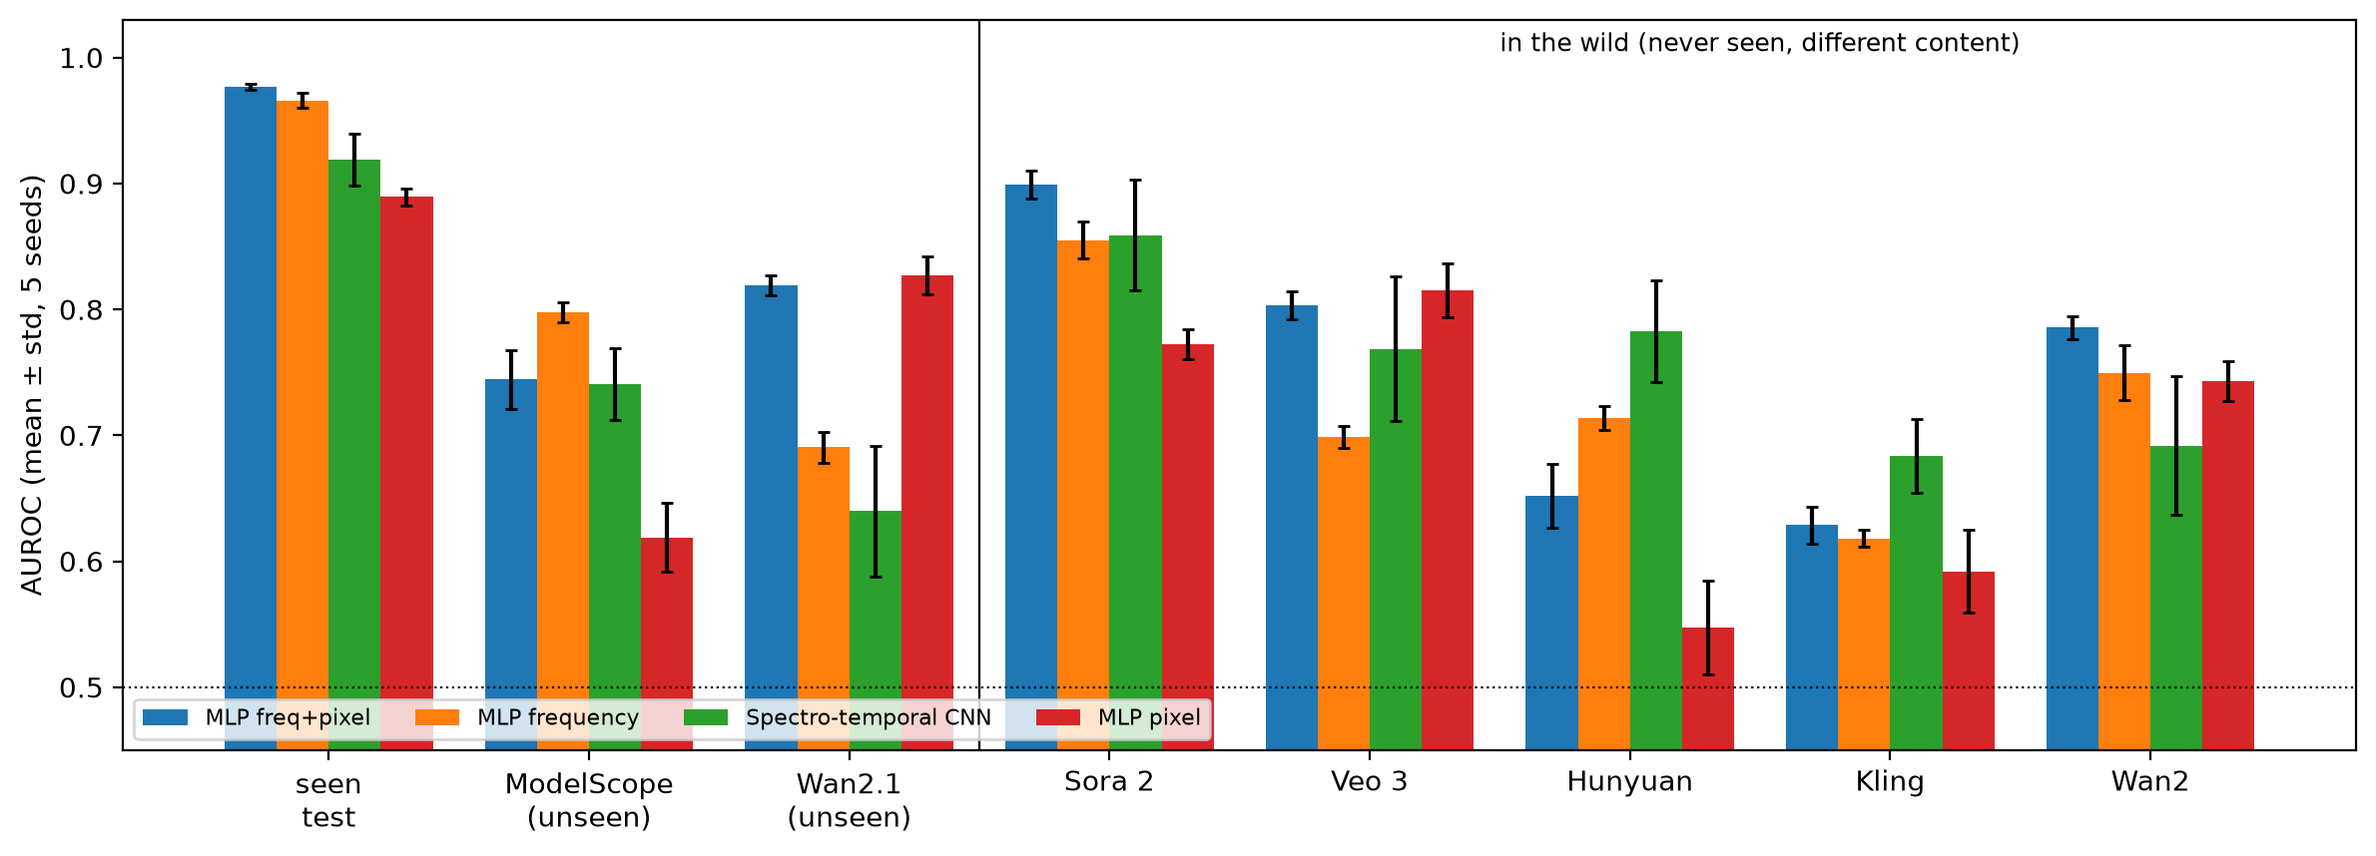
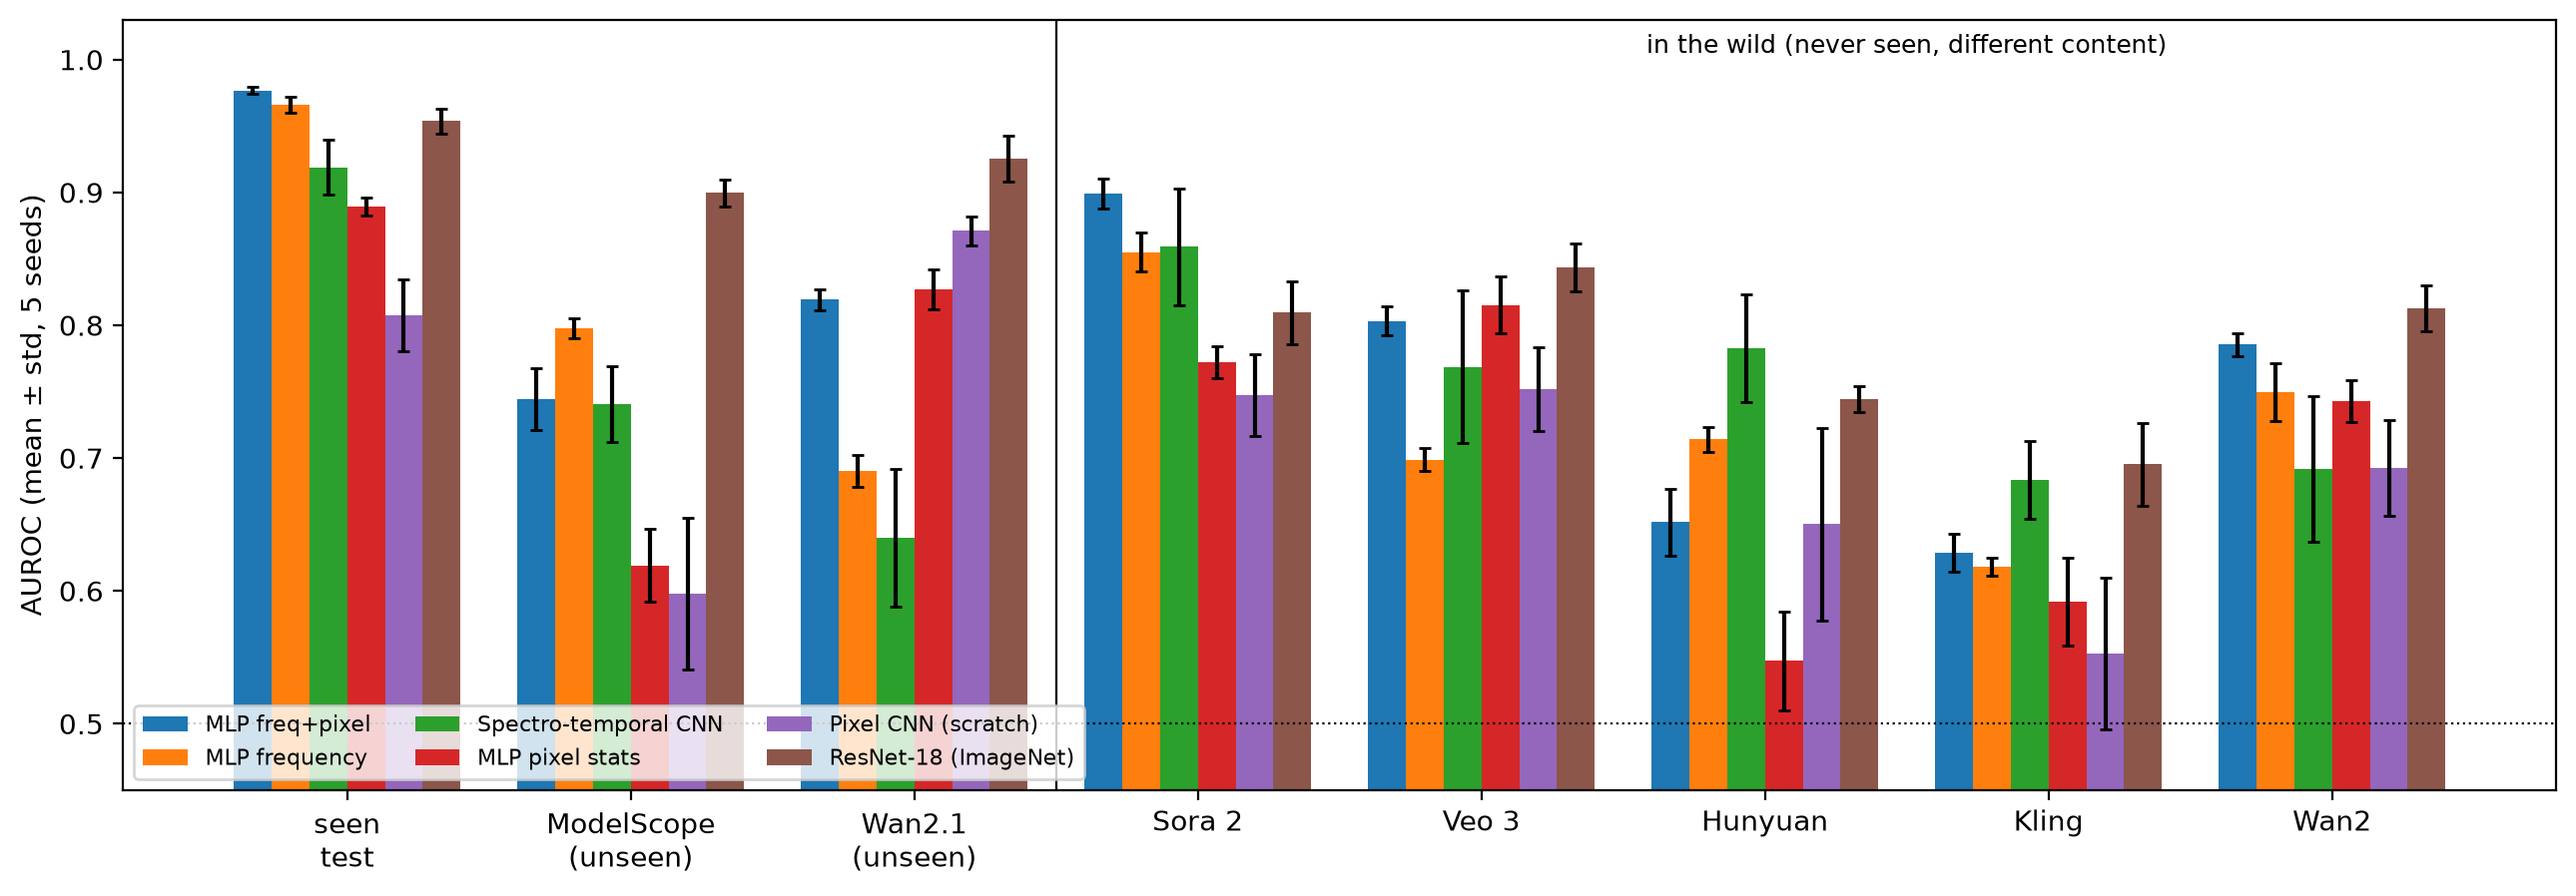
Seed-stability chart includes deep pixel baselines; ignore old-results backup

diff --git a/src/eval/seed_stability.py b/src/eval/seed_stability.py
@@ -80,23 +80,28 @@ def plot() -> None:
     matplotlib.use("Agg")
     import matplotlib.pyplot as plt
     r = pd.read_csv(RESULTS / "seed_stability_runs.csv")
+    deep = RESULTS / "pixel_deep_runs.csv"           # pixel CNN + ResNet-18 (src.models.pixel_cnn)
+    if deep.exists():
+        r = pd.concat([r, pd.read_csv(deep)], ignore_index=True)
     cols = ["seen", "modelscope", "wan", "wild_sora2", "wild_veo3", "wild_hunyuan", "wild_kling", "wild_wan2"]
     labels = ["seen\ntest", "ModelScope\n(unseen)", "Wan2.1\n(unseen)", "Sora 2", "Veo 3", "Hunyuan", "Kling", "Wan2"]
     order = [("mlp_fusion", "MLP freq+pixel"), ("mlp_all", "MLP frequency"), ("cnn", "Spectro-temporal CNN"),
-             ("mlp_pixel", "MLP pixel")]
+             ("mlp_pixel", "MLP pixel stats"), ("pixel_cnn", "Pixel CNN (scratch)"),
+             ("resnet18", "ResNet-18 (ImageNet)")]
+    order = [(k, lab) for k, lab in order if k in set(r.model)]
     g = r.groupby("model")[cols]
     m, s = g.mean(), g.std()
-    fig, ax = plt.subplots(figsize=(12, 4.4))
-    w = 0.2
+    fig, ax = plt.subplots(figsize=(13, 4.6))
+    w = 0.8 / len(order)
     for i, (k, lab) in enumerate(order):
-        ax.bar(np.arange(len(cols)) + (i - 1.5) * w, m.loc[k], w, yerr=s.loc[k], capsize=2, label=lab)
+        ax.bar(np.arange(len(cols)) + (i - (len(order) - 1) / 2) * w, m.loc[k], w, yerr=s.loc[k], capsize=2, label=lab)
     ax.axvline(2.5, color="k", lw=0.8)
     ax.text(5.5, 1.005, "in the wild (never seen, different content)", ha="center", fontsize=9)
     ax.axhline(0.5, color="k", ls=":", lw=0.8)
     ax.set_xticks(range(len(cols)), labels)
     ax.set_ylim(0.45, 1.03)
     ax.set_ylabel("AUROC (mean ± std, 5 seeds)")
-    ax.legend(fontsize=8, ncol=4, loc="lower left")
+    ax.legend(fontsize=8, ncol=3, loc="lower left")
     fig.tight_layout()
     fig.savefig(RESULTS / "figures" / "seed_stability.png", dpi=200, bbox_inches="tight")
 
